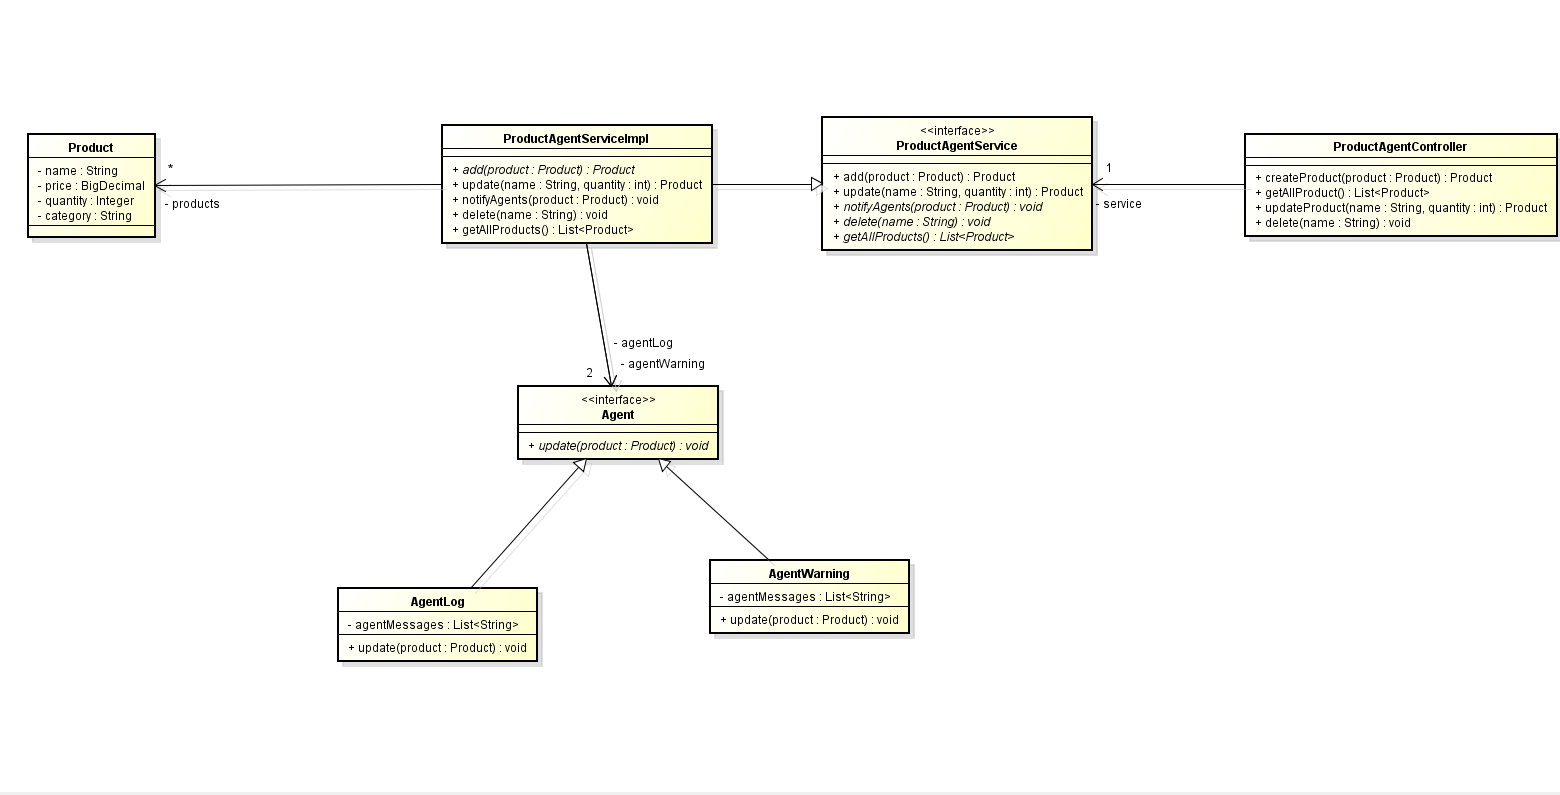
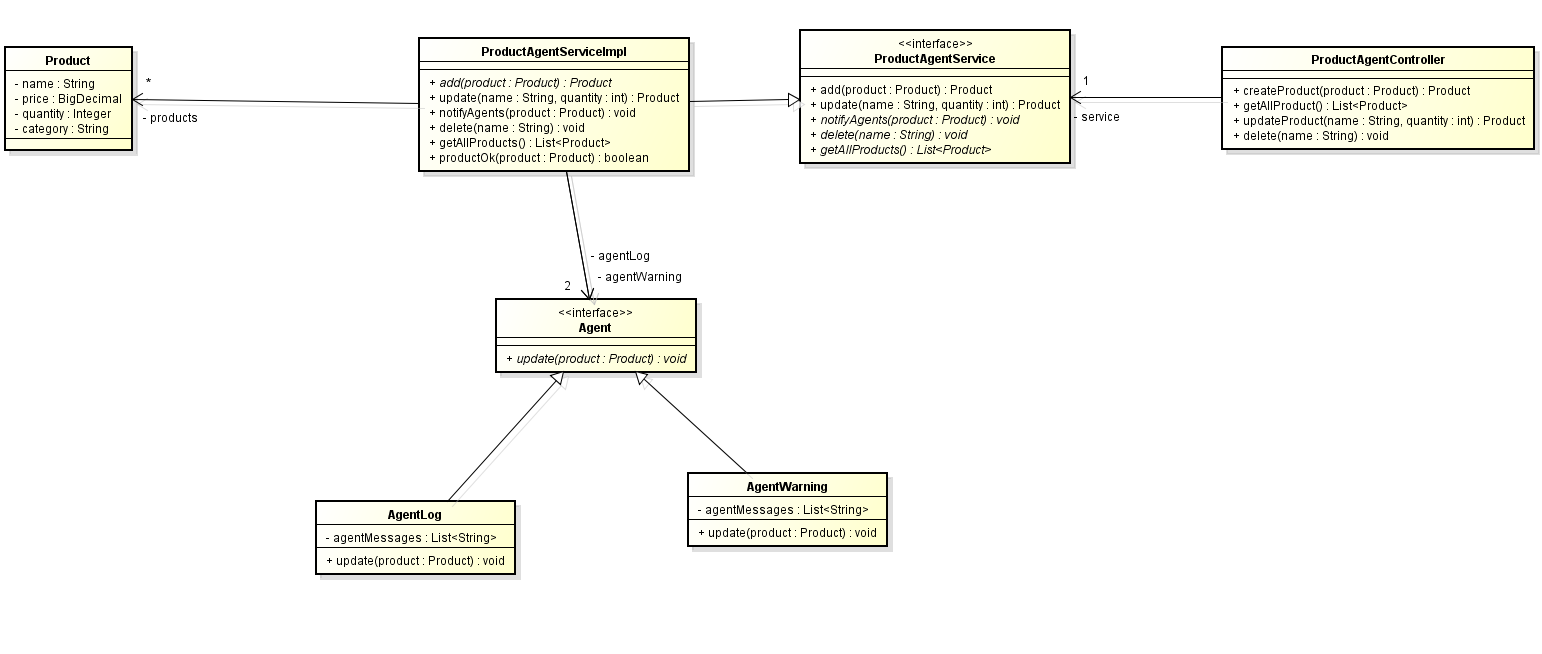
validation of product and more unit tests

diff --git a/src/main/java/edu/eci/cvds/productAgent/service/ProductAgentServiceImpl.java b/src/main/java/edu/eci/cvds/productAgent/service/ProductAgentServiceImpl.java
@@ -5,6 +5,7 @@ import edu.eci.cvds.productAgent.model.Product;
 import org.springframework.beans.factory.annotation.Qualifier;
 import org.springframework.stereotype.Service;
 
+import java.math.BigDecimal;
 import java.util.HashMap;
 import java.util.List;
 import java.util.Map;
@@ -24,6 +25,7 @@ public class ProductAgentServiceImpl implements ProductAgentService {
 
     @Override
     public Product add(Product product) {
+        if(!productOk(product)) return null;
         String name = product.getName();
         if(products.containsKey(name)){
             return  null;
@@ -34,6 +36,7 @@ public class ProductAgentServiceImpl implements ProductAgentService {
 
     @Override
     public Product update(String name, int quantity) {
+        if(quantity < 0) return null;
         if(!products.containsKey(name)) {
             return null;
         }
@@ -59,4 +62,27 @@ public class ProductAgentServiceImpl implements ProductAgentService {
         agentWarning.update(product);
     }
 
+    private boolean productOk(Product product){
+
+        if (product == null) return false;
+
+        String name = product.getName();
+        BigDecimal price = product.getPrice();
+        int quantity = product.getQuantity();
+        String category = product.getCategory();
+
+        if (!validateString(name) || !validateString(category)) {
+            return false;
+        }
+
+        if (quantity < 0) return false;
+
+        if (price.intValue() < 0) return false;
+
+        return true;
+    }
+
+    private boolean validateString(String param){
+        return param != null && !param.isEmpty();
+    }
 }

diff --git a/src/test/java/edu/eci/cvds/productAgent/service/ProductAgentServiceTest.java b/src/test/java/edu/eci/cvds/productAgent/service/ProductAgentServiceTest.java
@@ -39,6 +39,35 @@ public class ProductAgentServiceTest {
         ProductAgentService service = createService();
         assertNull(service.update("example-name",10));
     }
+
+    @Test
+    public void shouldntCreateAProductWithoutAName(){
+        ProductAgentService service = createService();
+        Product product = new Product(null, BigDecimal.valueOf(10),10,"electronic");
+        assertNull(service.add(product));
+    }
+
+    @Test
+    public void shouldntCreateAProductWithANegativeQuantity(){
+        ProductAgentService service = createService();
+        Product product = new Product("product", BigDecimal.valueOf(10),-10,"electronic");
+        assertNull(service.add(product));
+    }
+
+    @Test
+    public void deleteProductTest(){
+        ProductAgentService service = createService();
+        Product product = addProductToService(service);
+        service.delete(product.getName());
+        assertTrue(service.getAllProduct().isEmpty());
+    }
+
+    @Test
+    public void shouldntCreateAProductWithoutACategory(){
+        ProductAgentService service = createService();
+        Product product = new Product("product", BigDecimal.valueOf(10),10,null);
+        assertNull(service.add(product));
+    }
     private ProductAgentService createService(){
         Agent agentLog = new AgentLog();
         Agent agentWarning = new AgentWarning();

diff --git a/src/main/java/edu/eci/cvds/productAgent/controller/ExceptionHandlerController.java b/src/main/java/edu/eci/cvds/productAgent/controller/ExceptionHandlerController.java
@@ -1,0 +1,15 @@
+package edu.eci.cvds.productAgent.controller;
+
+import org.springframework.http.HttpStatusCode;
+import org.springframework.http.ResponseEntity;
+import org.springframework.web.bind.annotation.ControllerAdvice;
+import org.springframework.web.bind.annotation.ExceptionHandler;
+
+@ControllerAdvice
+public class ExceptionHandlerController {
+
+    @ExceptionHandler(Exception.class)
+    public ResponseEntity<?> handle(){
+        return new ResponseEntity<>("Error executing the application", HttpStatusCode.valueOf(500));
+    }
+}

diff --git a/README.md b/README.md
@@ -10,7 +10,8 @@ Entonces, con Observer es posible que cada vez que se actualiza la clase con la 
 esta llame a las clases que necesitan estos datos que se actualizaron.
 
 En este caso es Agent es quien necesita la informacion de los productos que estan en 
-ProductAgentServiceImpl.
+ProductAgentServiceImpl, entonces cada vez que se actualiza el stock de un producto
+se notifica a los agentes de este cambio.
 
 ## Documentación
 
@@ -33,16 +34,18 @@ Ejemplo de la petición:
 ### Método http POST
 ### Body recibe {"name":"string", "price":float, "quantity":integer, "category":"string"} que es el producto a añadir.
 
-Ejemplo de la petición:
+Ejemplo de la petición con un flujo normal:
 
 ![image](./assets/postcreate.png)
+
+Si falla algo dentro de la creación por la validación lo que se muestra en la respuesta de la peticion es null.
 
 ### updateProduct
 ### Path: /update
 ### Método http PUT
 ### Recibe dos parametros en el path name y quantity, el name es el producto a modificar su cantidad de stock.
 
-Ejemplo de la petición:
+Ejemplo de la petición de un flujo normal:
 
 ![image](./assets/update.png)
 
@@ -51,6 +54,14 @@ Ejemplo de la petición:
 ### Método http DELETE
 ### Recibe una variable en el path la cual es el nombre del producto a eliminar.
 
+
 Ejemplo de la petición:
 
 ![image](./assets/delete.png)
+
+Si falla algo dentro de la creación por la validación lo que se muestra en la respuesta de la peticion es null.
+
+
+## Cobertura con jacoco
+
+![image](./assets/jacoco.png)
